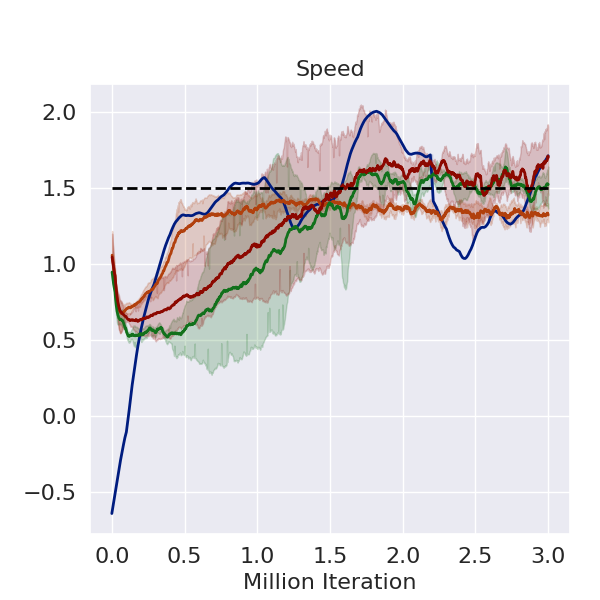
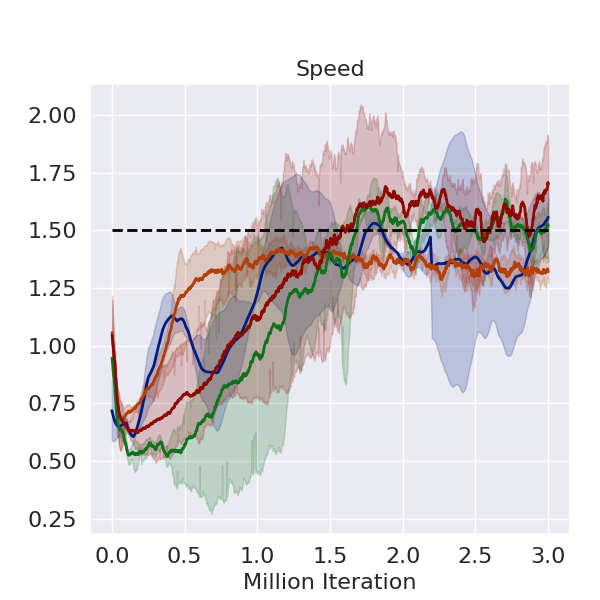
update data process

diff --git a/data_process/lineplot_mujoco_raw_spd_walker.py b/data_process/lineplot_mujoco_raw_spd_walker.py
@@ -13,7 +13,7 @@ from tensorboard.backend.event_processing import event_accumulator
 import json
 
 sns.set(style="darkgrid")
-SMOOTHFACTOR = 0.135 # 1 3 7 halfcheetah
+SMOOTHFACTOR = 0.3 # 1 3 7 halfcheetah
 SMOOTHFACTOR2 = 20
 SMOOTHFACTOR3 = 20
 DIV_LINE_WIDTH = 50
@@ -99,14 +99,14 @@ def plot_eval_results_of_all_alg_n_runs(dirs_dict_for_plot=None):
                                         if tag == 'episode_cost' and v.tag[11:] == 'episode_velo_mean':
                                             data_in_one_run_of_one_alg[tag].append(
                                                 (1 - SMOOTHFACTOR) * data_in_one_run_of_one_alg[tag][
-                                                    -1] + SMOOTHFACTOR * float(t)
-                                                if data_in_one_run_of_one_alg[tag] else float(t))
+                                                    -1] + SMOOTHFACTOR * np.abs(float(t)/ 1.8 * 1.4)
+                                                if data_in_one_run_of_one_alg[tag] else np.abs(float(t))/ 1.8 * 1.4)
                                             data_in_one_run_of_one_alg['iteration'].append(int(step))
                                         elif tag ==  'episode_return' and v.tag[11:] == 'episode_return' :
                                             data_in_one_run_of_one_alg[tag].append(
                                                 (1 - SMOOTHFACTOR) * data_in_one_run_of_one_alg[tag][
-                                                    -1] + SMOOTHFACTOR * float(t)
-                                                if data_in_one_run_of_one_alg[tag] else float(t))
+                                                    -1] + SMOOTHFACTOR * float(t/ 1.8 * 1.4)
+                                                if data_in_one_run_of_one_alg[tag] else float(t)/ 1.8 * 1.4)
                                             data_in_one_run_of_one_alg['iteration'].append(int(step))
                         for i,d in enumerate(data_in_one_run_of_one_alg[tag]):
                             step = data_in_one_run_of_one_alg['iteration'][i]

diff --git a/data_process/lineplot_mujoco_raw_spd.py b/data_process/lineplot_mujoco_raw_spd.py
@@ -26,10 +26,10 @@ fsac_bias = {'episode_return':{'Ant':-1000,'HalfCheetah':0,'Walker2d':0,},'episo
 
 
 def help_func():
-    tag2plot = ['episode_return']
+    tag2plot = ['episode_cost']
     alg_list = ['FSAC', 'CPO','PPO-Lagrangian','TRPO-Lagrangian', ] # 'FSAC', 'CPO', 'SAC','SAC-Lagrangian',
     lbs = ['FAC','CPO','PPO-L','TRPO-L',] #  'FAC', 'CPO', 'SAC','SAC-Lagrangian',
-    task = ['Walker2d']
+    task = ['Ant']
     #todo: CarGoal: sac
     #todo: CarButton: sac choose better fac
     # todo: CarPush: ???
@@ -121,7 +121,7 @@ def plot_eval_results_of_all_alg_n_runs(dirs_dict_for_plot=None):
                                                     -1] + SMOOTHFACTOR * float(t)
                                                 if data_in_one_run_of_one_alg[tag] else float(t))
                                             data_in_one_run_of_one_alg['iteration'].append(int(step))
-                                        elif tag ==  v.tag[11:] :
+                                        elif tag == 'episode_return' and v.tag[11:]=='episode_return':
                                             data_in_one_run_of_one_alg[tag].append(
                                                 (1 - SMOOTHFACTOR) * data_in_one_run_of_one_alg[tag][
                                                     -1] + SMOOTHFACTOR * float(t)

diff --git a/data_process/lineplot_mujoco_raw_spd_halfcheetah.py b/data_process/lineplot_mujoco_raw_spd_halfcheetah.py
@@ -26,7 +26,7 @@ fsac_bias = {'episode_return':{'Ant':-1000,'HalfCheetah':-750,},'episode_cost':{
 
 
 def help_func():
-    tag2plot = ['episode_cost']
+    tag2plot = ['episode_return']
     alg_list = ['FSAC', 'CPO','PPO-Lagrangian','TRPO-Lagrangian', ] # 'FSAC', 'CPO', 'SAC','SAC-Lagrangian',
     lbs = ['FAC','CPO','PPO-L','TRPO-L',] #  'FAC', 'CPO', 'SAC','SAC-Lagrangian',
     task = ['HalfCheetah']
